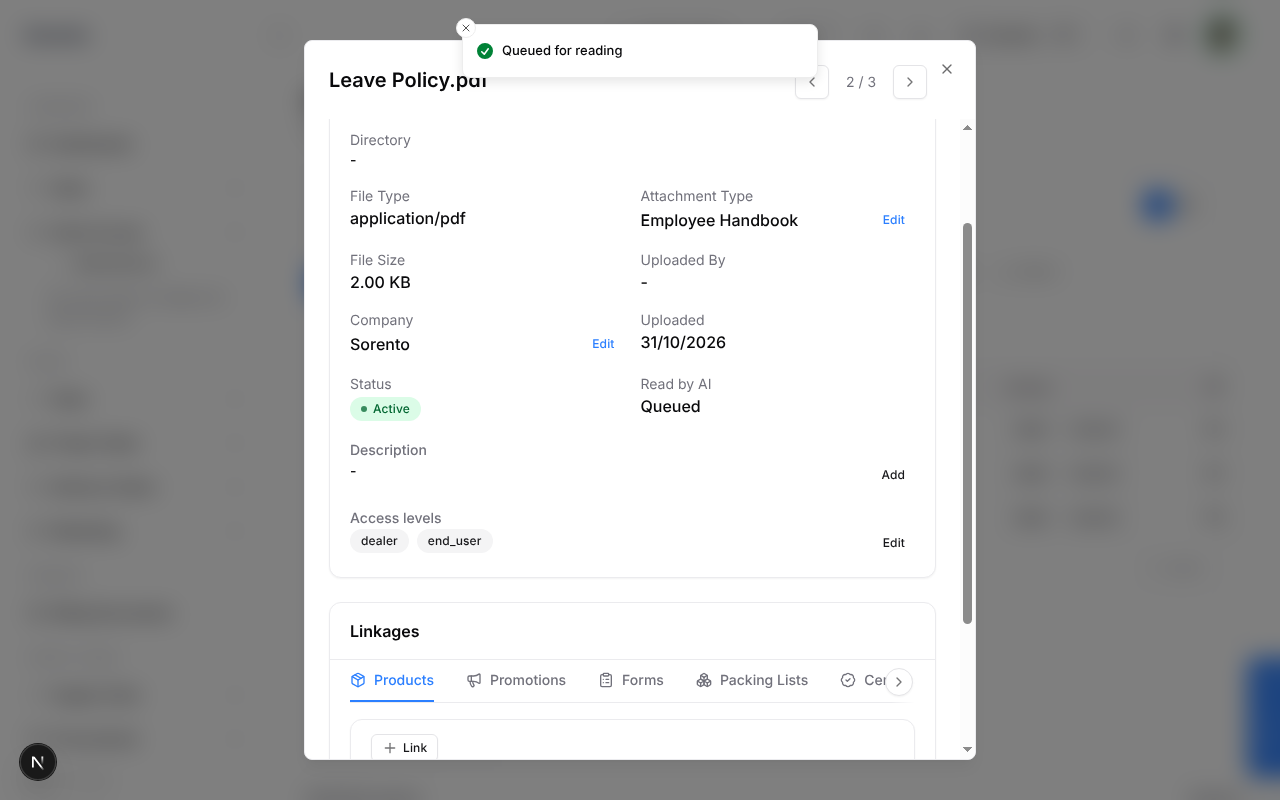
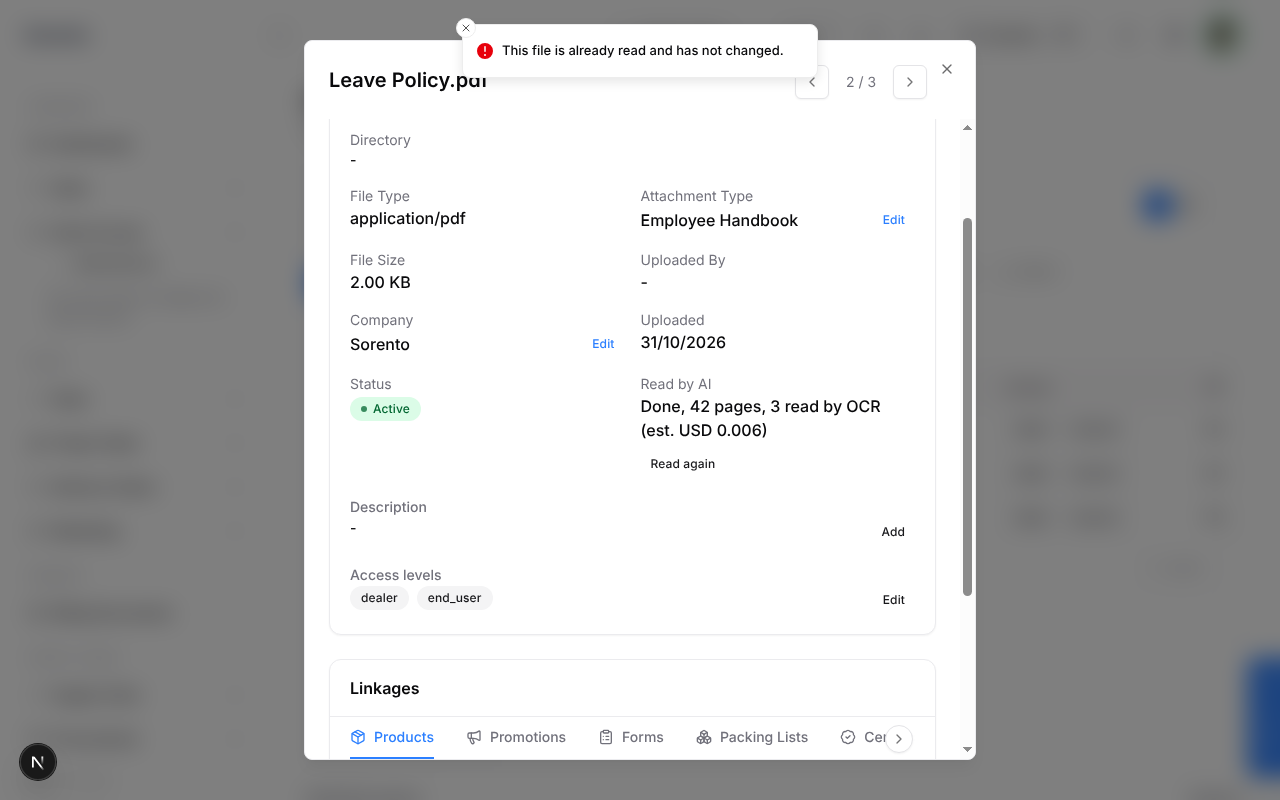
docs(evidence): browser re-check results, D1-D3 closed, type list gating [skip ci]
Claude-Session: https://claude.ai/code/session_01GHUZsWFyKnGR41i6ahuu2e

diff --git a/documentation/plans/resources/evidence/agentic-knowledge/RESULTS.md b/documentation/plans/resources/evidence/agentic-knowledge/RESULTS.md
@@ -55,3 +55,40 @@ Script: tools.dispatch for crm_knowledge_search with a context for the superadmi
 ## Verdict
 
 Step 1: PASS. Step 2: PASS on the detail page, FAIL on reachability (D1). Steps 3, 4, 5: PASS. Agent check: PASS.
+
+## Re-check (31 Oct 2026, HEAD 53233cec, session "akn2")
+
+Same stack, sidebar navigation only (Resources > Files, Resources > Attachment Types), 1280 and 375, no implementation code changed, nothing committed. Console and page errors: none recorded. The session was closed by name.
+
+### Environment finding (not a lane defect)
+
+The uvicorn on :8000 had been started at 08:20 without `--reload`, before commit dec498d1 (08:39) added the "file unchanged" rule to `knowledge_service.read_block_reason`. Against that stale process Read again on file (a) returned 202 instead of 409, and a read run by the old code stored a text-hash in `source_hash` instead of `file_hash`. I restarted uvicorn with the same command and env file (SORENTO_ENV_FILE=.env.dev-browse, 127.0.0.1:8000, log /tmp/akn2_uvicorn.log) and re-aligned file (a)'s stored hash with a data-only script (/tmp/scripts/akn2_reset_a.py). All results below are against HEAD code. The worker (started 08:50) is after dec498d1 and was not touched.
+
+### Results
+
+| Step | Result | Evidence |
+|---|---|---|
+| D1. Files (sidebar), modal for (a) Leave Policy.pdf: "Read by AI" row "Done, 42 pages, 3 read by OCR (est. USD 0.006)" and Read again | PASS | 30-file-a-modal-1280.png |
+| D1. Modal for (b) Dress Code.pdf: "Failed" with the error text and Read again | PASS | 32-file-b-failed-1280.png |
+| D1. Modal for (c) Parking Memo.pdf (type Off): no "Read by AI" row and no Read again | PASS | 37-file-c-off-1280.png |
+| D1 at 375: rows wrap, no horizontal overflow (document and dialog scrollWidth equal clientWidth) for (a), (b), (c) | PASS | 38-file-a-375.png, 39-file-b-375.png, 40-file-c-375.png |
+| D2. Read again on (b): POST ai-read 202, worker runs, error now reads "The file could not be downloaded from storage." with no AWS or S3 config text | PASS | 33-file-b-read-again-1280.png, 34-file-b-new-error-1280.png |
+| D3. Row Processing in the open modal, flipped to failed in the DB, modal showed Failed on its own with no reload (first read after 2 s, limit 10 s) | PASS, with the caveat below | 35-file-b-processing-before-1280.png, 36-file-b-failed-after-1280.png |
+| 4. Read again on (a) (done, file hash unchanged): POST ai-read 409, error toast "This file is already read and has not changed.", row stays Done | PASS (after the restart above) | 31-file-a-read-again-409-1280.png |
+| 5a. Non-admin viewer@example.com, role "AKN Types Viewer" with only resource.attachment_types.view: sidebar shows only Resources > Attachment Types, list loads (GET 200), Add, Edit and Delete controls count 0 | PASS | 41-types-viewer-view-only-1280.png |
+| 5b. Same role plus resource.attachment_types.edit (after a reload): Edit pencil on both rows, Delete and Add still absent | PASS | 42-types-viewer-edit-1280.png |
+| 6. No UUIDs in visible text (regex over innerText): the three file modals, the page behind them, and the viewer's types page, 0 matches each | PASS | scripted check |
+
+D3 caveat: the real job finishes in about 0.2 s, so Processing could not be held long enough for the worker itself to flip it while the modal was open. I set the row to Processing, reopened the modal (it showed Processing), then set it to failed from a script. That proves the modal polls and redraws on its own; it does not prove a worker-driven flip. The poll lives in AttachmentDetailModal.tsx:858-859 (5000 ms while in flight).
+
+### Seeding for step 5
+
+Via /tmp/scripts/akn2_viewer.py: a `user_roles` row (slug akn-types-viewer), a `users` row (viewer@example.com, ACTIVE, bcrypt password in /tmp/akn_viewer.env), a `user_role_assignments` row, and `user_role_permissions` rows pointing at the existing `user_permissions` slugs. Nothing else was needed for the sidebar: the Attachment Types leaf is gated only by `resource.attachment_types.view` (menu.config.tsx:876) and the Resources group by the `resources` module, which the earlier pass had enabled. No `user_companies` grant was required. Permission changes show after a page reload with no new sign-in.
+
+### Defects
+
+None new in lane code. The earlier D1, D2 and D3 are closed as described above. One thing to be aware of: a dev backend started without `--reload` serves stale code after a fix commit, which produced a false FAIL on step 4 until restarted.
+
+### Data left behind
+
+Files: (a) Done with its original display figures and hash aligned; (b) Failed with the storage-download sentence; (c) untouched. Added: the viewer role and user above, with view and edit permissions.
